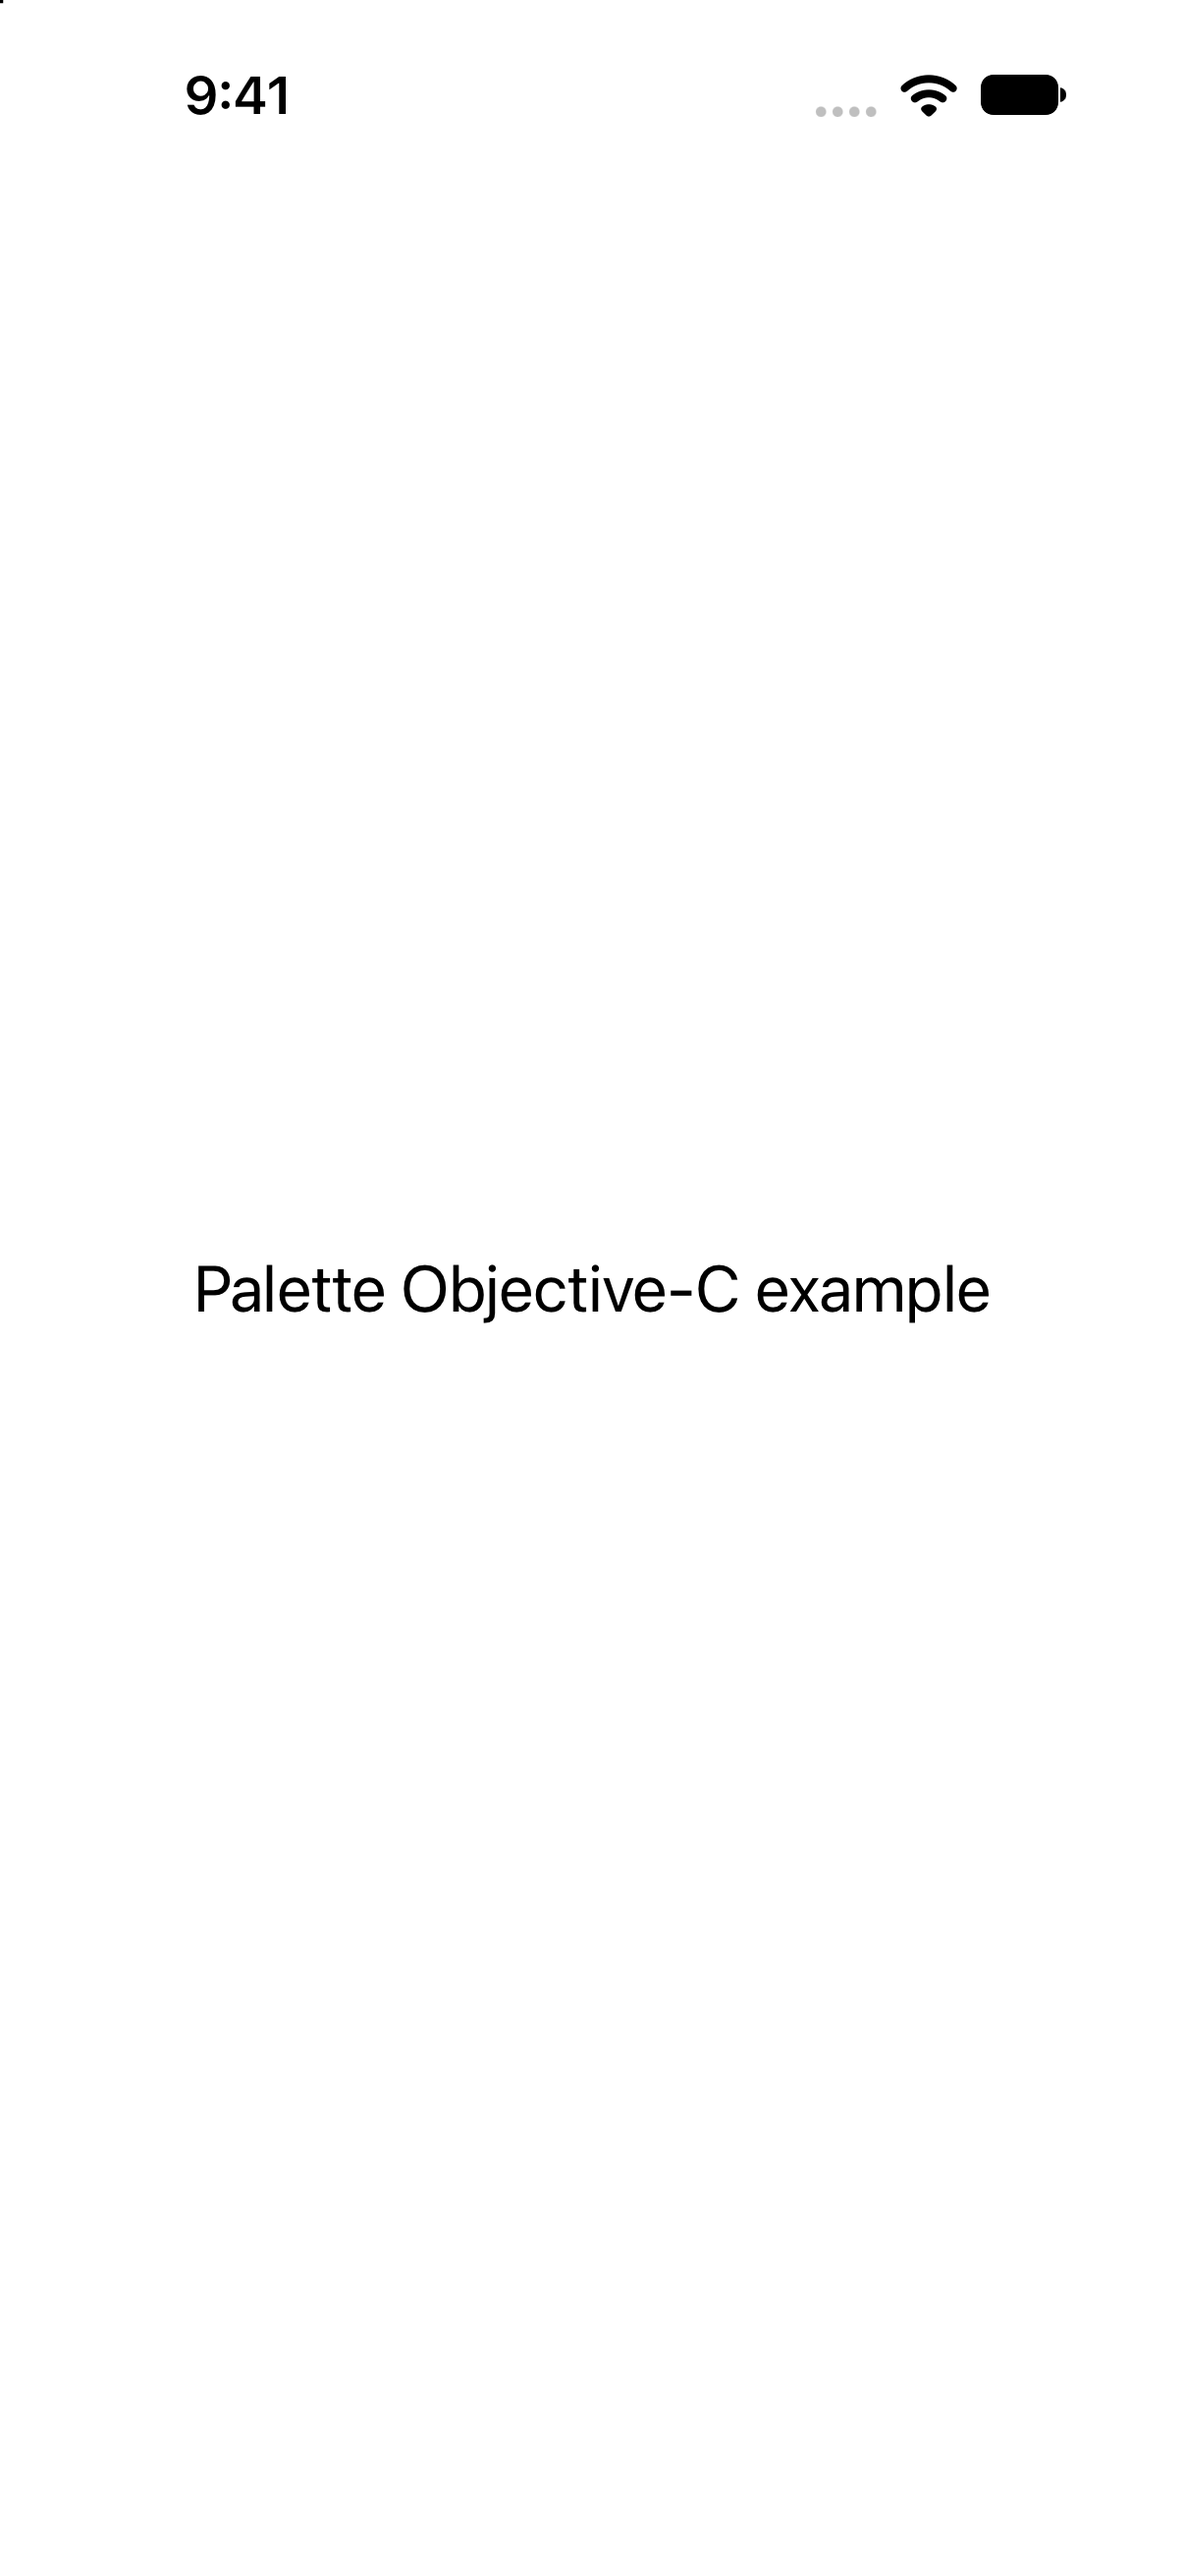
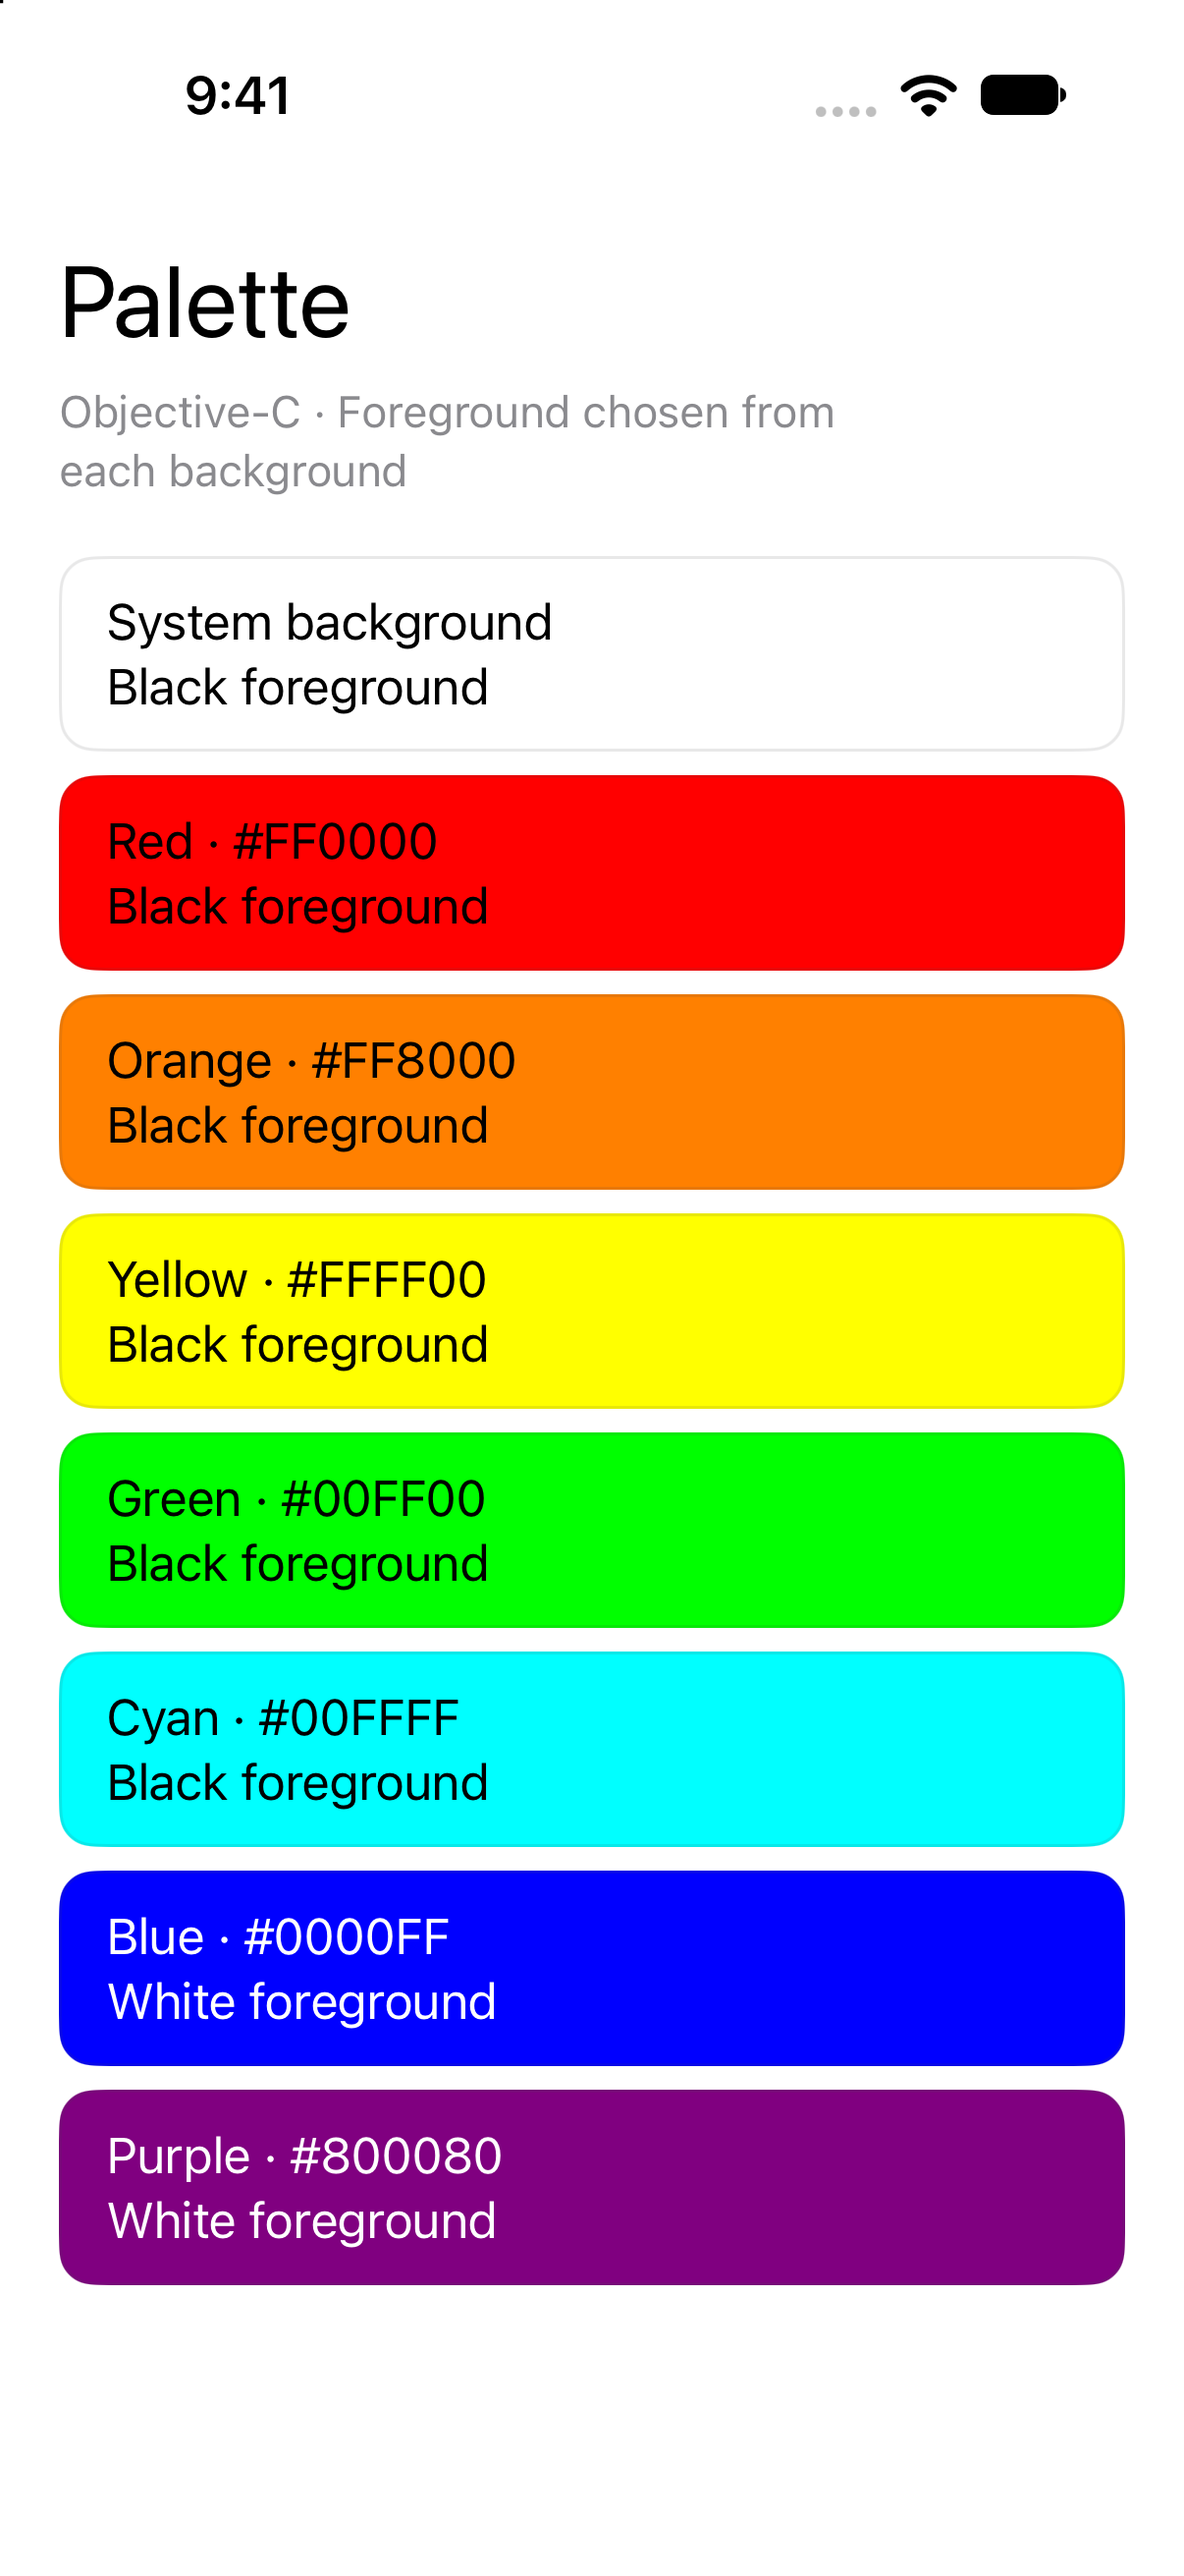
Demonstrate automatic foreground contrast across colored backgrounds

diff --git a/Example/ViewController.swift b/Example/ViewController.swift
@@ -25,15 +25,80 @@ import UIKit
 
 @MainActor
 final class ViewController: UIViewController {
-  @IBOutlet private weak var imageView: UIImageView!
-  @IBOutlet private weak var label: UILabel!
+  private var samples: [(background: UIView, label: UILabel, name: String)] = []
 
   override func viewDidLoad() {
     super.viewDidLoad()
     view.backgroundColor = .systemBackground
-    label.text = "Palette contrast example"
-    label.font = .preferredFont(forTextStyle: .title2)
-    label.adjustsFontForContentSizeCategory = true
+    let scrollView = UIScrollView()
+    scrollView.translatesAutoresizingMaskIntoConstraints = false
+    view.addSubview(scrollView)
+    let content = UIStackView()
+    content.axis = .vertical
+    content.spacing = 8
+    content.translatesAutoresizingMaskIntoConstraints = false
+    scrollView.addSubview(content)
+    NSLayoutConstraint.activate([
+      scrollView.topAnchor.constraint(equalTo: view.safeAreaLayoutGuide.topAnchor),
+      scrollView.bottomAnchor.constraint(equalTo: view.safeAreaLayoutGuide.bottomAnchor),
+      scrollView.leadingAnchor.constraint(equalTo: view.leadingAnchor),
+      scrollView.trailingAnchor.constraint(equalTo: view.trailingAnchor),
+      content.topAnchor.constraint(equalTo: scrollView.contentLayoutGuide.topAnchor, constant: 20),
+      content.bottomAnchor.constraint(
+        equalTo: scrollView.contentLayoutGuide.bottomAnchor, constant: -20),
+      content.leadingAnchor.constraint(
+        equalTo: scrollView.contentLayoutGuide.leadingAnchor, constant: 20),
+      content.trailingAnchor.constraint(
+        equalTo: scrollView.contentLayoutGuide.trailingAnchor, constant: -20),
+      content.widthAnchor.constraint(
+        equalTo: scrollView.frameLayoutGuide.widthAnchor, constant: -40),
+    ])
+    let title = UILabel()
+    title.text = "Palette"
+    title.font = .preferredFont(forTextStyle: .largeTitle)
+    title.adjustsFontForContentSizeCategory = true
+    content.addArrangedSubview(title)
+    let subtitle = UILabel()
+    subtitle.text = "Swift · Foreground chosen from each background"
+    subtitle.font = .preferredFont(forTextStyle: .subheadline)
+    subtitle.textColor = .secondaryLabel
+    subtitle.numberOfLines = 0
+    subtitle.adjustsFontForContentSizeCategory = true
+    content.addArrangedSubview(subtitle)
+    content.setCustomSpacing(20, after: subtitle)
+
+    let colors: [(String, UIColor)] = [
+      ("System background", .systemBackground),
+      ("Red · #FF0000", .red),
+      ("Orange · #FF8000", UIColor(red: 1, green: 0.5, blue: 0, alpha: 1)),
+      ("Yellow · #FFFF00", .yellow),
+      ("Green · #00FF00", .green),
+      ("Cyan · #00FFFF", .cyan),
+      ("Blue · #0000FF", .blue),
+      ("Purple · #800080", UIColor(red: 0.5, green: 0, blue: 0.5, alpha: 1)),
+    ]
+    for (name, color) in colors {
+      let background = UIView()
+      background.backgroundColor = color
+      background.layer.cornerRadius = 12
+      background.layer.borderWidth = 1
+      let label = UILabel()
+      label.font = .preferredFont(forTextStyle: .body)
+      label.adjustsFontForContentSizeCategory = true
+      label.numberOfLines = 0
+      label.text = name
+      label.translatesAutoresizingMaskIntoConstraints = false
+      background.addSubview(label)
+      NSLayoutConstraint.activate([
+        background.heightAnchor.constraint(greaterThanOrEqualToConstant: 64),
+        label.topAnchor.constraint(equalTo: background.topAnchor, constant: 12),
+        label.bottomAnchor.constraint(equalTo: background.bottomAnchor, constant: -12),
+        label.leadingAnchor.constraint(equalTo: background.leadingAnchor, constant: 16),
+        label.trailingAnchor.constraint(equalTo: background.trailingAnchor, constant: -16),
+      ])
+      content.addArrangedSubview(background)
+      samples.append((background, label, name))
+    }
     if #available(iOS 17.0, *) {
       registerForTraitChanges([UITraitUserInterfaceStyle.self]) {
         (controller: ViewController, _: UITraitCollection) in
@@ -52,11 +117,21 @@ final class ViewController: UIViewController {
 
   override func viewDidLayoutSubviews() {
     super.viewDidLayoutSubviews()
-    do {
-      label.textColor = try Palette(background: view, forView: label).contrastingColor()
-    } catch {
-      label.textColor = .label
-      assertionFailure("Unable to sample the example background: \(error)")
+    for sample in samples {
+      sample.background.layer.borderColor =
+        UIColor.separator.resolvedColor(with: traitCollection).cgColor
+      do {
+        let foreground = try Palette(background: sample.background, forView: sample.label)
+          .contrastingColor()
+        sample.label.textColor = foreground
+        let text = "\(sample.name)\n\(foreground == .black ? "Black" : "White") foreground"
+        if sample.label.text != text {
+          sample.label.text = text
+        }
+      } catch {
+        sample.label.textColor = .label
+        assertionFailure("Unable to sample the example background: \(error)")
+      }
     }
   }
 }

diff --git a/PaletteTests/PaletteTests.swift b/PaletteTests/PaletteTests.swift
@@ -43,6 +43,32 @@ struct PaletteTests {
     #expect(try Palette.contrastingColor(for: colors[index]) == expected[index])
   }
 
+  @Test(arguments: [0, 1, 2, 3, 4, 5, 6])
+  func coloredBackgroundsAssignTheExpectedForeground(_ index: Int) throws {
+    let colors: [UIColor] = [
+      .red, UIColor(red: 1, green: 0.5, blue: 0, alpha: 1), .yellow,
+      .green, .cyan, .blue, UIColor(red: 0.5, green: 0, blue: 0.5, alpha: 1),
+    ]
+    let expected: [UIColor] = [.black, .black, .black, .black, .black, .white, .white]
+    let background = UIView(frame: CGRect(x: 0, y: 0, width: 200, height: 64))
+    background.backgroundColor = colors[index]
+    let label = UILabel(frame: CGRect(x: 16, y: 12, width: 160, height: 40))
+    label.text = "Palette"
+    background.addSubview(label)
+    let palette = Palette(background: background, forView: label)
+    label.textColor = try palette.contrastingColor()
+    #expect(label.textColor == expected[index])
+    #expect(background.backgroundColor == colors[index])
+    expectColor(try background.color(at: CGPoint(x: 190, y: 32)), matches: colors[index])
+
+    background.backgroundColor = .black
+    label.textColor = try palette.contrastingColor()
+    #expect(label.textColor == .white)
+    background.backgroundColor = .white
+    label.textColor = try palette.contrastingColor()
+    #expect(label.textColor == .black)
+  }
+
   @Test func grayscaleDoesNotAssumeFourSourceComponents() throws {
     #expect(try Palette.contrastingColor(for: UIColor(white: 0.8, alpha: 1)) == .black)
     #expect(try Palette.contrastingColor(for: UIColor(white: 0.1, alpha: 1)) == .white)

diff --git a/Example Objective-C/ViewController.m b/Example Objective-C/ViewController.m
@@ -2,28 +2,89 @@
 @import Palette;
 
 @interface ViewController ()
-@property (strong, nonatomic) UILabel *contrastLabel;
+@property (copy, nonatomic) NSArray<UIView *> *backgrounds;
+@property (copy, nonatomic) NSArray<UILabel *> *labels;
+@property (copy, nonatomic) NSArray<NSString *> *names;
 @end
 
 @implementation ViewController
 
 - (void)viewDidLoad {
     [super viewDidLoad];
+    self.view.backgroundColor = UIColor.systemBackgroundColor;
+    UIScrollView *scrollView = [[UIScrollView alloc] init];
+    scrollView.translatesAutoresizingMaskIntoConstraints = NO;
+    [self.view addSubview:scrollView];
+    UIStackView *content = [[UIStackView alloc] init];
+    content.axis = UILayoutConstraintAxisVertical;
+    content.spacing = 8;
+    content.translatesAutoresizingMaskIntoConstraints = NO;
+    [scrollView addSubview:content];
+    [NSLayoutConstraint activateConstraints:@[
+        [scrollView.topAnchor constraintEqualToAnchor:self.view.safeAreaLayoutGuide.topAnchor],
+        [scrollView.bottomAnchor constraintEqualToAnchor:self.view.safeAreaLayoutGuide.bottomAnchor],
+        [scrollView.leadingAnchor constraintEqualToAnchor:self.view.leadingAnchor],
+        [scrollView.trailingAnchor constraintEqualToAnchor:self.view.trailingAnchor],
+        [content.topAnchor constraintEqualToAnchor:scrollView.contentLayoutGuide.topAnchor constant:20],
+        [content.bottomAnchor constraintEqualToAnchor:scrollView.contentLayoutGuide.bottomAnchor constant:-20],
+        [content.leadingAnchor constraintEqualToAnchor:scrollView.contentLayoutGuide.leadingAnchor constant:20],
+        [content.trailingAnchor constraintEqualToAnchor:scrollView.contentLayoutGuide.trailingAnchor constant:-20],
+        [content.widthAnchor constraintEqualToAnchor:scrollView.frameLayoutGuide.widthAnchor constant:-40]
+    ]];
+    UILabel *title = [[UILabel alloc] init];
+    title.text = @"Palette";
+    title.font = [UIFont preferredFontForTextStyle:UIFontTextStyleLargeTitle];
+    title.adjustsFontForContentSizeCategory = YES;
+    [content addArrangedSubview:title];
+    UILabel *subtitle = [[UILabel alloc] init];
+    subtitle.text = @"Objective-C · Foreground chosen from each background";
+    subtitle.font = [UIFont preferredFontForTextStyle:UIFontTextStyleSubheadline];
+    subtitle.textColor = UIColor.secondaryLabelColor;
+    subtitle.numberOfLines = 0;
+    subtitle.adjustsFontForContentSizeCategory = YES;
+    [content addArrangedSubview:subtitle];
+    [content setCustomSpacing:20 afterView:subtitle];
+
+    self.names = @[@"System background", @"Red · #FF0000", @"Orange · #FF8000",
+                   @"Yellow · #FFFF00", @"Green · #00FF00", @"Cyan · #00FFFF",
+                   @"Blue · #0000FF", @"Purple · #800080"];
+    NSArray<UIColor *> *colors = @[
+        UIColor.systemBackgroundColor, UIColor.redColor,
+        [UIColor colorWithRed:1 green:0.5 blue:0 alpha:1],
+        UIColor.yellowColor, UIColor.greenColor, UIColor.cyanColor, UIColor.blueColor,
+        [UIColor colorWithRed:0.5 green:0 blue:0.5 alpha:1]
+    ];
+    NSMutableArray<UIView *> *backgrounds = [NSMutableArray array];
+    NSMutableArray<UILabel *> *labels = [NSMutableArray array];
+    for (NSUInteger index = 0; index < colors.count; index++) {
+        UIView *background = [[UIView alloc] init];
+        background.backgroundColor = colors[index];
+        background.layer.cornerRadius = 12;
+        background.layer.borderWidth = 1;
+        UILabel *label = [[UILabel alloc] init];
+        label.font = [UIFont preferredFontForTextStyle:UIFontTextStyleBody];
+        label.adjustsFontForContentSizeCategory = YES;
+        label.numberOfLines = 0;
+        label.text = self.names[index];
+        label.translatesAutoresizingMaskIntoConstraints = NO;
+        [background addSubview:label];
+        [NSLayoutConstraint activateConstraints:@[
+            [background.heightAnchor constraintGreaterThanOrEqualToConstant:64],
+            [label.topAnchor constraintEqualToAnchor:background.topAnchor constant:12],
+            [label.bottomAnchor constraintEqualToAnchor:background.bottomAnchor constant:-12],
+            [label.leadingAnchor constraintEqualToAnchor:background.leadingAnchor constant:16],
+            [label.trailingAnchor constraintEqualToAnchor:background.trailingAnchor constant:-16]
+        ]];
+        [content addArrangedSubview:background];
+        [backgrounds addObject:background];
+        [labels addObject:label];
+    }
+    self.backgrounds = backgrounds;
+    self.labels = labels;
     if (@available(iOS 17.0, *)) {
         [self registerForTraitChanges:@[[UITraitUserInterfaceStyle class]]
                           withAction:@selector(appearanceDidChange)];
     }
-    self.view.backgroundColor = [UIColor systemBackgroundColor];
-    self.contrastLabel = [[UILabel alloc] init];
-    self.contrastLabel.text = @"Palette Objective-C example";
-    self.contrastLabel.font = [UIFont preferredFontForTextStyle:UIFontTextStyleTitle2];
-    self.contrastLabel.adjustsFontForContentSizeCategory = YES;
-    self.contrastLabel.translatesAutoresizingMaskIntoConstraints = NO;
-    [self.view addSubview:self.contrastLabel];
-    [NSLayoutConstraint activateConstraints:@[
-        [self.contrastLabel.centerXAnchor constraintEqualToAnchor:self.view.centerXAnchor],
-        [self.contrastLabel.centerYAnchor constraintEqualToAnchor:self.view.centerYAnchor]
-    ]];
 }
 
 - (void)appearanceDidChange {
@@ -43,10 +104,21 @@
 
 - (void)viewDidLayoutSubviews {
     [super viewDidLayoutSubviews];
-    Palette *palette = [[Palette alloc] initWithBackground:self.view forView:self.contrastLabel];
-    self.contrastLabel.textColor = [palette getContrastingColor];
-    NSAssert([self.contrastLabel.textColor isEqual:[Palette getContrastingColor:self.view forView:self.contrastLabel]],
-             @"Instance and class Objective-C APIs must agree");
+    for (NSUInteger index = 0; index < self.backgrounds.count; index++) {
+        UIView *background = self.backgrounds[index];
+        UILabel *label = self.labels[index];
+        background.layer.borderColor = [UIColor.separatorColor resolvedColorWithTraitCollection:self.traitCollection].CGColor;
+        Palette *palette = [[Palette alloc] initWithBackground:background forView:label];
+        UIColor *foreground = [palette getContrastingColor];
+        label.textColor = foreground;
+        NSString *text = [NSString stringWithFormat:@"%@\n%@ foreground", self.names[index],
+                          [foreground isEqual:UIColor.blackColor] ? @"Black" : @"White"];
+        if (![label.text isEqualToString:text]) {
+            label.text = text;
+        }
+        NSAssert([foreground isEqual:[Palette getContrastingColor:background forView:label]],
+                 @"Instance and class Objective-C APIs must agree");
+    }
 }
 
 @end

diff --git a/README.md b/README.md
@@ -4,20 +4,20 @@ Palette chooses black or white foreground text for a UIKit background. It sample
 
 ## Screenshots
 
-The Swift and Objective-C examples running on iPhone 18 Pro with iOS 27.0. Each pair shows light and dark appearance; the foreground switches between black and white as the background changes.
+The Swift and Objective-C examples running on iPhone 18 Pro with iOS 27.0. Each example samples red, orange, yellow, green, cyan, blue, purple, and the dynamic system background. Every card assigns its label foreground using Palette after layout and displays the selected black or white result. Light and dark appearance change the system background card; the fixed color cards retain their colors and contrast choices.
 
 ### Swift
 
 <p>
-  <img src="screenshots/swift-light.png" alt="Swift example in light appearance with black text on a white background" width="240">
-  <img src="screenshots/swift-dark.png" alt="Swift example in dark appearance with white text on a black background" width="240">
+  <img src="screenshots/swift-light.png" alt="Swift example in light appearance with automatically contrasted text on eight background colors" width="240">
+  <img src="screenshots/swift-dark.png" alt="Swift example in dark appearance with automatically contrasted text on eight background colors" width="240">
 </p>
 
 ### Objective-C
 
 <p>
-  <img src="screenshots/objc-light.png" alt="Objective-C example in light appearance with black text on a white background" width="240">
-  <img src="screenshots/objc-dark.png" alt="Objective-C example in dark appearance with white text on a black background" width="240">
+  <img src="screenshots/objc-light.png" alt="Objective-C example in light appearance with automatically contrasted text on eight background colors" width="240">
+  <img src="screenshots/objc-dark.png" alt="Objective-C example in dark appearance with automatically contrasted text on eight background colors" width="240">
 </p>
 
 ## Requirements
